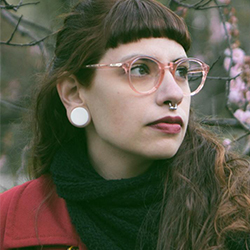
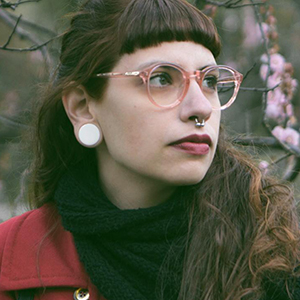
Fotos responsive para iphone y ipad funcionando correctamente

diff --git a/HTML/aboutus.html b/HTML/aboutus.html
@@ -44,14 +44,14 @@
 
     <div class="bio">
         <div class="texto">
-            <img class=foto src="../IMG/ROSSI2.jpg">
+            <img class=foto src="../IMG/ROSSI.jpg">
             <p> <span class="nombre">Rossita</span> 
                 <br> 
                 Diseñadora industrial con un fuerte romance con el diseño gráfico. 
                 Carpintera. Fan de Batman y Star Wars.</p>
         </div>
         <div class="texto">
-            <img class=foto src="">
+            <img class=foto src="../IMG/MAQUI.jpg">
             <p><span class="nombre">Maqui</span> 
             <br> 
             Trabajadora jurídica, nacida y crecida en el oeste. 

diff --git a/CSS/aboutus.css b/CSS/aboutus.css
@@ -133,7 +133,8 @@ span {
     }
     .foto {
         display: flex;
-        width: 40vw;
+        max-width: 100%;
+        max-height: 100%;
         -webkit-clip-path: circle(50% at 50% 50%);
         clip-path: circle(50% at 50% 50%);
     }
@@ -223,7 +224,8 @@ span {
     }
     .foto {
         display: flex;
-        width: 150%;
+        max-width: 50%;
+        max-height: 50%;
         -webkit-clip-path: circle(50% at 50% 50%);
         clip-path: circle(50% at 50% 50%);
     }
